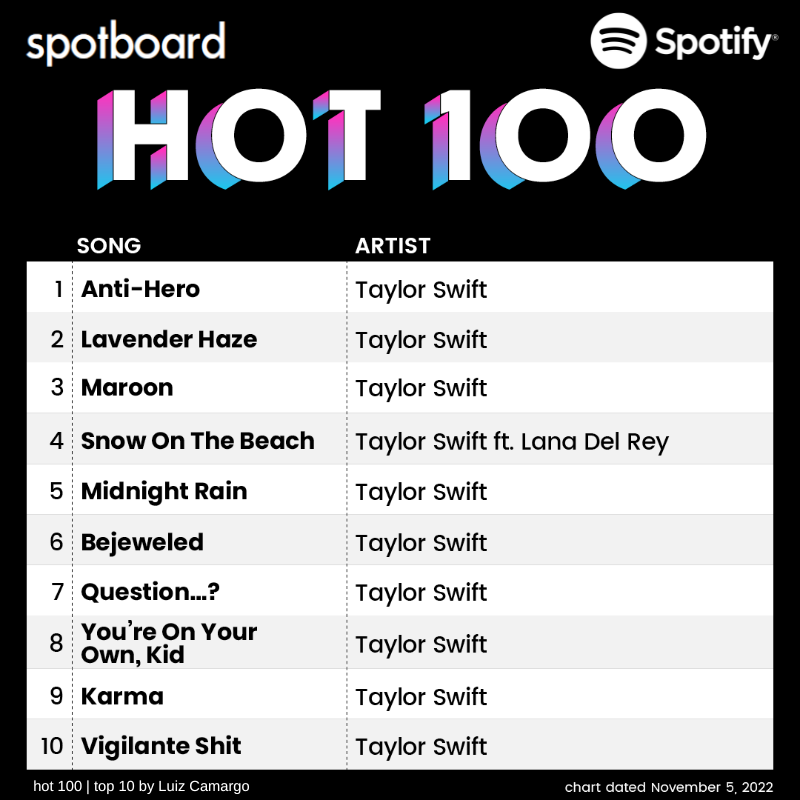
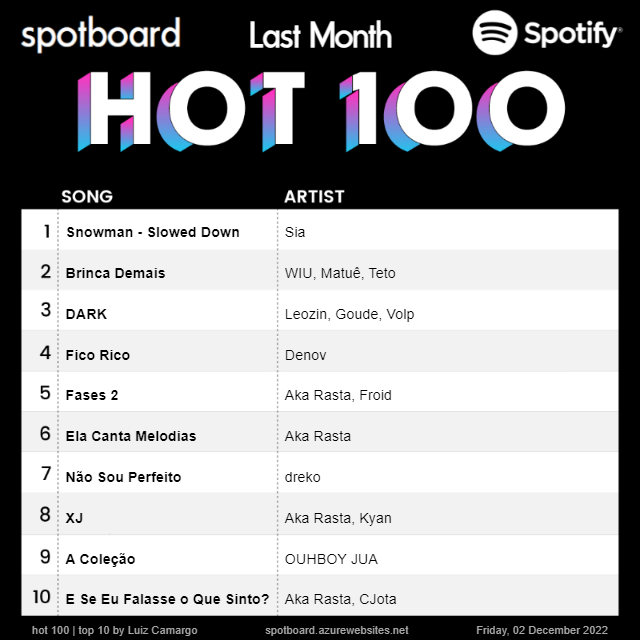
Updates

diff --git a/Spotboard.Component/MyHot100.razor.css b/Spotboard.Component/MyHot100.razor.css
@@ -27,6 +27,9 @@
     top: 38.8rem;
     font-size: .7rem;
     color: #a7a7a7 !important;
+    display: flex;
+    width: 90%;
+    justify-content: space-between;
 }
 
 .top-items {
@@ -59,9 +62,16 @@
     width: 13rem;
     font-weight: bolder;
     display: flex;
-    min-width: 14vh;
+    min-width: 13rem;
 }
 
+.time {
+    font-family: 'spotboard';
+    top: 0.8rem;
+    position: absolute;
+    font-weight: bold;
+    font-size: 2.2rem;
+}
 
 @media (max-width: 650px) {
 
@@ -87,7 +97,14 @@
     }
 
     .footer-name {
-        top: 28.9rem !important;
+        top: 29.1rem !important;
+        font-size: .55rem;
+        left: 1.5rem;
+    }
+
+    .time {
+        top: 0.5rem;
+        font-size: 1.8rem;
     }
 }
 
@@ -117,13 +134,17 @@
     }
 
     .footer-name {
-        top: 44em !important;
-        font-size: .55rem !important;
+        top: 53.9em !important;
+        font-size: .45rem !important;
         left: 1rem !important;
     }
 
     #main-content {
         gap: 0rem;
+    }
+
+    .time {
+        font-size: 1.4rem;
     }
 }
 
@@ -151,7 +172,11 @@
     }
 
     .footer-name {
-        top: 45.1em !important;
-        font-size: .45rem !important;
+        top: 50.8em !important;
+        font-size: .4rem !important;
+    }
+
+    .time {
+        font-size: 1.1rem;
     }
 }

diff --git a/Spotboard.Component/RadioButton.razor.css b/Spotboard.Component/RadioButton.razor.css
@@ -1,0 +1,36 @@
+.wrapper  {
+    display: flex;
+    gap: 1rem;
+}
+
+input[type='radio'] {
+    visibility: hidden;
+}
+
+input[type='radio']:after {
+    width: 20px;
+    height: 20px;
+    border-radius: 15px;
+    top: -2px;
+    left: -1px;
+    position: relative;
+    background-color: #d1d3d1;
+    content: '';
+    display: inline-block;
+    visibility: visible;
+    border: 2px solid white;
+}
+
+    input[type='radio']:checked:after {
+        width: 20px;
+        height: 20px;
+        border-radius: 15px;
+        top: -2px;
+        left: -1px;
+        position: relative;
+        background-color: #16A34A;
+        content: '';
+        display: inline-block;
+        visibility: visible;
+        border: 2px solid white;
+    }

diff --git a/Spotboard.Web/wwwroot/index.html b/Spotboard.Web/wwwroot/index.html
@@ -4,11 +4,11 @@
 <head>
     <meta charset="utf-8" />
     <meta name="viewport" content="width=device-width, initial-scale=1.0, maximum-scale=1.0, user-scalable=no" />
+    <meta name="description" content="Generate your Hot 100 | Top 10 like Billboard of your most listening songs on Spotify! Lets Go?!" />
     <title>Spotboard</title>
     <base href="/" />
     <link href="css/bootstrap/bootstrap.min.css" rel="stylesheet" />
     <link href="css/app.css" rel="stylesheet" />
-    <link rel="icon" type="image/png" href="favicon.png" />
     <link href="Spotboard.Web.styles.css" rel="stylesheet" />
 </head>
 

diff --git a/Spotboard.Component/SpotifyButtonSecondary.razor.css b/Spotboard.Component/SpotifyButtonSecondary.razor.css
@@ -8,6 +8,7 @@
     height: 3rem;
     font-size: 1.2rem;
     border: .1vh solid #16A34A;
+    cursor: pointer;
 }
 
     .spotify-btn-sec:hover {

diff --git a/Spotboard.Component/SpotifyButton.razor.css b/Spotboard.Component/SpotifyButton.razor.css
@@ -8,6 +8,7 @@
     width: 100%;
     height: 3rem;
     letter-spacing: .15rem !important;
+    cursor: pointer;
 }
 
     .spotify-btn:hover {

diff --git a/Spotboard.Component/Aside.razor.css b/Spotboard.Component/Aside.razor.css
@@ -4,4 +4,5 @@
     gap: 1rem;
     justify-content: center;
     align-items: center;
+    height: 100vh;
 }

diff --git a/Spotboard.Shared/Extensions/EnumExtension.cs b/Spotboard.Shared/Extensions/EnumExtension.cs
@@ -1,4 +1,5 @@
-using System.ComponentModel;
+using Spotboard.Shared.Attributes;
+using System.ComponentModel;
 
 namespace Spotboard.Shared.Extensions;
 
@@ -8,5 +9,21 @@ public static class EnumExtension
     {
         return typeof(TEnum).GetMember(enumValue.ToString())
             .SelectMany(member => member.GetCustomAttributes(typeof(DescriptionAttribute), true).Cast<DescriptionAttribute>()).FirstOrDefault().Description;
+    }
+
+    public static string ToDescriptionAux<TEnum>(this TEnum enumValue) where TEnum : struct
+    {
+        return typeof(TEnum).GetMember(enumValue.ToString())
+            .SelectMany(member => member.GetCustomAttributes(typeof(DescriptionAuxAttribute), true).Cast<DescriptionAuxAttribute>()).FirstOrDefault().Description;
+    }
+
+    public static T ParseEnum<T>(this string value)
+    {
+        return (T)Enum.Parse(typeof(T), value, true);
+    }
+
+    public static IEnumerable<T> GetValues<T>()
+    {
+        return Enum.GetValues(typeof(T)).Cast<T>();
     }
 }

diff --git a/Spotboard.Shared/Enums/ETimeRange.cs b/Spotboard.Shared/Enums/ETimeRange.cs
@@ -1,12 +1,19 @@
-using System.ComponentModel;
+using Spotboard.Shared.Attributes;
+using System.ComponentModel;
 
 namespace Spotboard.Shared.Enums;
 public enum ETimeRange
 {
-    [Description("long_term")]
-    LongTerm,
-    [Description("medium_term")]
-    MediumTerm,
+
     [Description("short_term")]
-    ShortTerm
+    [DescriptionAux("Last Month")]
+    ShortTerm,
+
+    [Description("medium_term")]
+    [DescriptionAux("Last 6 Months")]
+    MediumTerm,
+
+    [Description("long_term")]
+    [DescriptionAux("All Time")]
+    LongTerm
 }

diff --git a/Spotboard.Shared/Attributes/DescriptionAuxAttribute.cs b/Spotboard.Shared/Attributes/DescriptionAuxAttribute.cs
@@ -1,0 +1,11 @@
+namespace Spotboard.Shared.Attributes;
+
+public class DescriptionAuxAttribute : Attribute
+{
+    public readonly string Description;
+
+    public DescriptionAuxAttribute(string description)
+    {
+        Description = description;
+    }
+}
